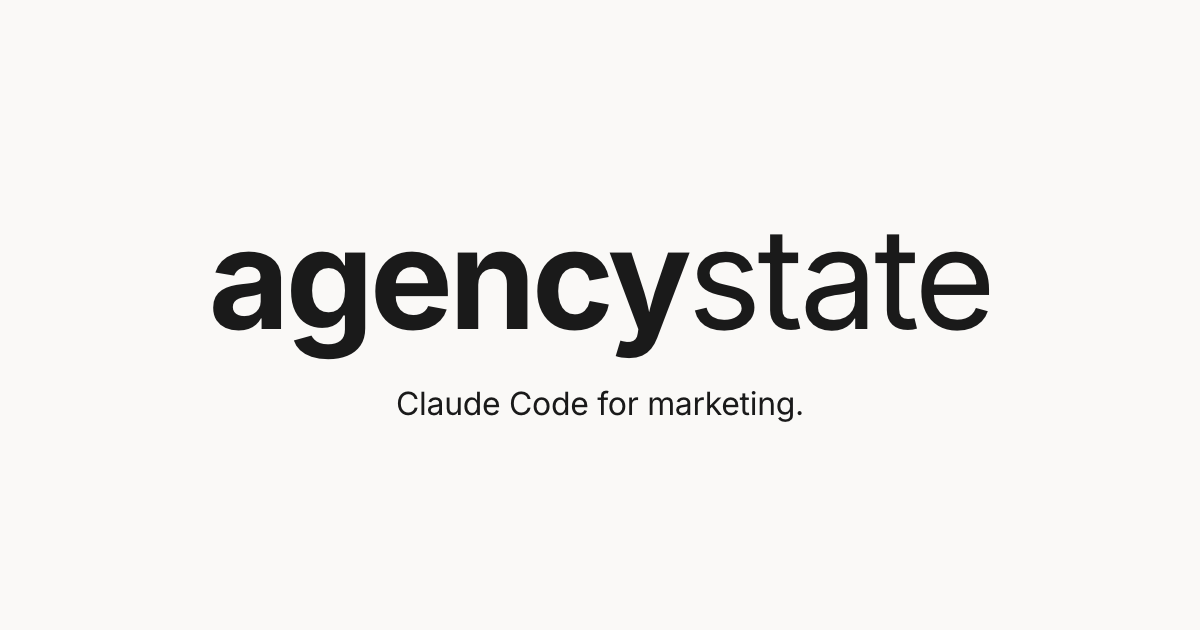
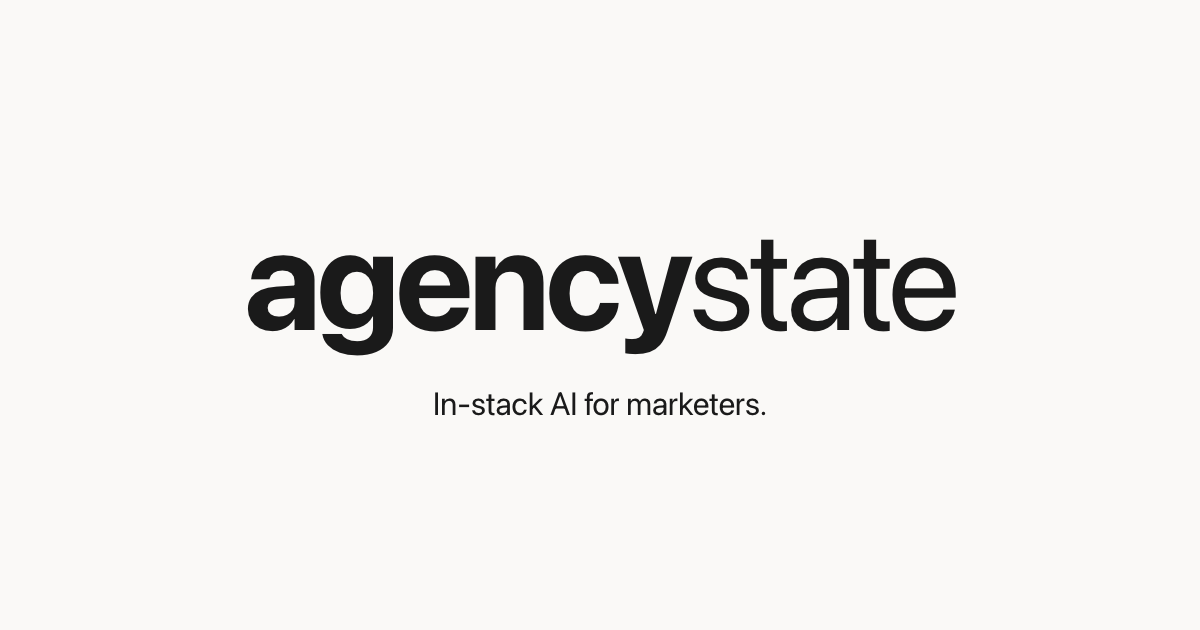
og-image: 'In-stack AI for marketers.' replaces old tagline
Aligns the OG image with the new canonical tagline (brand-guidelines
v2.7 in agency-state-practice). Source template updated; PNG regenerated
via headless Chrome at 1200x630.

Changed region(s): [[0.1542, 0.3619, 0.8325, 0.573], [0.3392, 0.6032, 0.6783, 0.6635]]

diff --git a/assets/og-templates/main.html b/assets/og-templates/main.html
@@ -41,6 +41,6 @@
 </head>
 <body>
     <div class="wordmark"><span class="bold">agency</span><span class="regular">state</span></div>
-    <div class="tagline">Claude Code for marketing.</div>
+    <div class="tagline">In-stack AI for marketers.</div>
 </body>
 </html>
